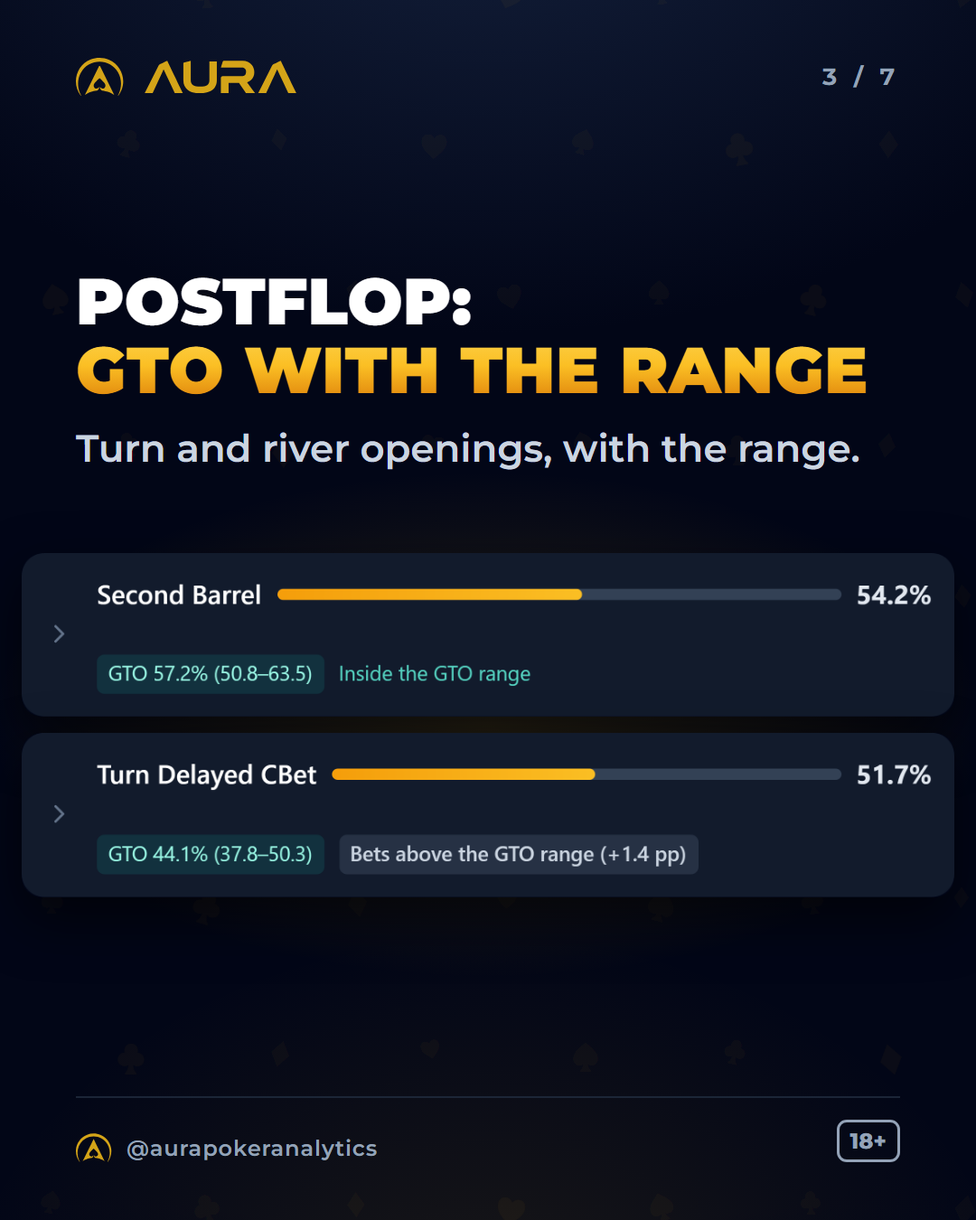
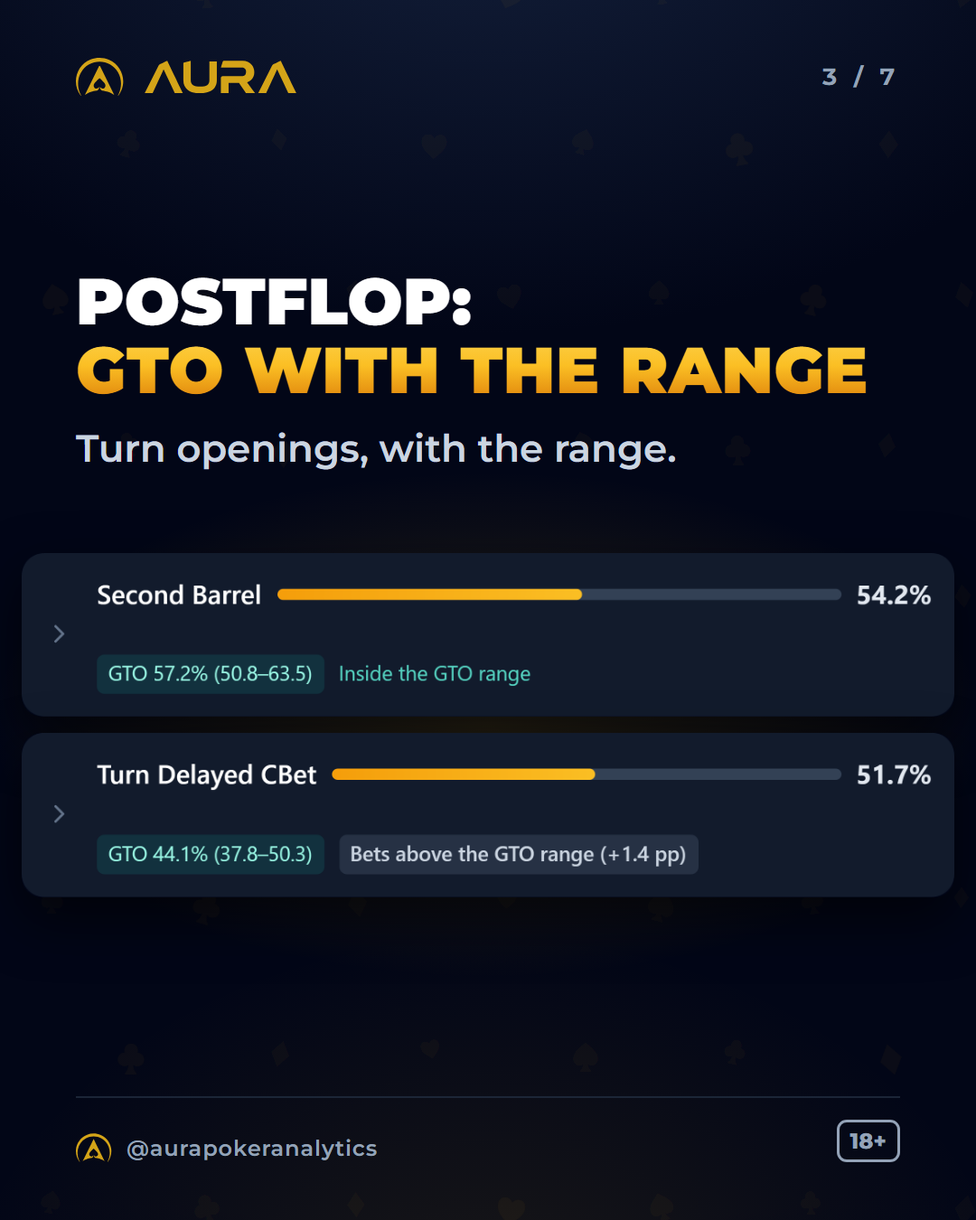
fix(modo-gto): ajustes da revisao de 14/10 (Discord sem 'sempre', 30-60bb, probe no turn, slide 3, HTML do e-mail)

Changed region(s): [[0.1833, 0.3422, 0.8861, 0.4044]]

diff --git a/content/posts/modo-gto-launch/email-en.html b/content/posts/modo-gto-launch/email-en.html
@@ -33,7 +33,7 @@
           </tr>
           <tr>
             <td style="padding-top:16px; padding-right:34px; padding-bottom:4px; padding-left:34px; font-family:Arial,Helvetica,sans-serif; color:#c3ccd9; font-size:15px; line-height:1.65;">
-              <p style="margin:0 0 14px 0;">Now on the flop, turn and river, including the aggressor&#x27;s openings on the turn and river (second barrel, delayed c-bet, probe, third barrel): the GTO number and the GTO range next to the field frequency. Pick the spot, hit Apply and see both together. The app&#x27;s status bar guides you, click by click, until GTO is there.</p>
+              <p style="margin:0 0 14px 0;">Now on the flop, turn and river, including the aggressor&#x27;s openings on the turn and river (second barrel, delayed c-bet and third barrel): the GTO number and the GTO range next to the field frequency. Pick the spot, hit Apply and see both together. The app&#x27;s status bar guides you, click by click, until GTO is there.</p>
               <p style="margin:0 0 14px 0;">Example: CO × BB single-raised pot (SRP), 30–60bb (GTO at 40bb), Regular tournaments, last 2 years, K-high two-tone, unpaired, disconnected flop, facing a 33% c-bet. The field folds 46.0% against GTO's 38.8%. This is one spot, not the field average. Check it on your board.</p>
               <p style="margin:0 0 4px 0;">Preflop: the GTO and the deviation in the covered cells, including the CO and BTN RFI at 40bb.</p>
             </td>

diff --git a/content/posts/modo-gto-launch/email-en.preview.html b/content/posts/modo-gto-launch/email-en.preview.html
@@ -33,7 +33,7 @@
           </tr>
           <tr>
             <td style="padding-top:16px; padding-right:34px; padding-bottom:4px; padding-left:34px; font-family:Arial,Helvetica,sans-serif; color:#c3ccd9; font-size:15px; line-height:1.65;">
-              <p style="margin:0 0 14px 0;">Now on the flop, turn and river, including the aggressor&#x27;s openings on the turn and river (second barrel, delayed c-bet, probe, third barrel): the GTO number and the GTO range next to the field frequency. Pick the spot, hit Apply and see both together. The app&#x27;s status bar guides you, click by click, until GTO is there.</p>
+              <p style="margin:0 0 14px 0;">Now on the flop, turn and river, including the aggressor&#x27;s openings on the turn and river (second barrel, delayed c-bet and third barrel): the GTO number and the GTO range next to the field frequency. Pick the spot, hit Apply and see both together. The app&#x27;s status bar guides you, click by click, until GTO is there.</p>
               <p style="margin:0 0 14px 0;">Example: CO × BB single-raised pot (SRP), 30–60bb (GTO at 40bb), Regular tournaments, last 2 years, K-high two-tone, unpaired, disconnected flop, facing a 33% c-bet. The field folds 46.0% against GTO's 38.8%. This is one spot, not the field average. Check it on your board.</p>
               <p style="margin:0 0 4px 0;">Preflop: the GTO and the deviation in the covered cells, including the CO and BTN RFI at 40bb.</p>
             </td>

diff --git a/content/posts/modo-gto-launch/email-pt.html b/content/posts/modo-gto-launch/email-pt.html
@@ -33,7 +33,7 @@
           </tr>
           <tr>
             <td style="padding-top:16px; padding-right:34px; padding-bottom:4px; padding-left:34px; font-family:Arial,Helvetica,sans-serif; color:#c3ccd9; font-size:15px; line-height:1.65;">
-              <p style="margin:0 0 14px 0;">Agora no flop, turn e river, inclusive as aberturas do agressor no turn e no river (second barrel, delayed c-bet, probe, third barrel): o número GTO e a faixa GTO ao lado da frequência do field. Escolha o spot, clique em Apply e veja os dois juntos. A faixa de status do app guia cada clique até ter GTO.</p>
+              <p style="margin:0 0 14px 0;">Agora no flop, turn e river, inclusive as aberturas do agressor no turn e no river (second barrel, delayed c-bet e third barrel): o número GTO e a faixa GTO ao lado da frequência do field. Escolha o spot, clique em Apply e veja os dois juntos. A faixa de status do app guia cada clique até ter GTO.</p>
               <p style="margin:0 0 14px 0;">Exemplo: CO × BB em pote simples (SRP), 30–60bb (GTO a 40bb), torneios Regular, últimos 2 anos, flop K-high two-tone, sem par, desconectado, contra o c-bet de 33%. O field folda 46,0% contra 38,8% do GTO. É um spot, não a média do field. Confira no seu board.</p>
               <p style="margin:0 0 4px 0;">No pré-flop, o GTO e o desvio nas células cobertas, inclusive o RFI de CO e BTN a 40bb.</p>
             </td>

diff --git a/content/posts/modo-gto-launch/email-pt.preview.html b/content/posts/modo-gto-launch/email-pt.preview.html
@@ -33,7 +33,7 @@
           </tr>
           <tr>
             <td style="padding-top:16px; padding-right:34px; padding-bottom:4px; padding-left:34px; font-family:Arial,Helvetica,sans-serif; color:#c3ccd9; font-size:15px; line-height:1.65;">
-              <p style="margin:0 0 14px 0;">Agora no flop, turn e river, inclusive as aberturas do agressor no turn e no river (second barrel, delayed c-bet, probe, third barrel): o número GTO e a faixa GTO ao lado da frequência do field. Escolha o spot, clique em Apply e veja os dois juntos. A faixa de status do app guia cada clique até ter GTO.</p>
+              <p style="margin:0 0 14px 0;">Agora no flop, turn e river, inclusive as aberturas do agressor no turn e no river (second barrel, delayed c-bet e third barrel): o número GTO e a faixa GTO ao lado da frequência do field. Escolha o spot, clique em Apply e veja os dois juntos. A faixa de status do app guia cada clique até ter GTO.</p>
               <p style="margin:0 0 14px 0;">Exemplo: CO × BB em pote simples (SRP), 30–60bb (GTO a 40bb), torneios Regular, últimos 2 anos, flop K-high two-tone, sem par, desconectado, contra o c-bet de 33%. O field folda 46,0% contra 38,8% do GTO. É um spot, não a média do field. Confira no seu board.</p>
               <p style="margin:0 0 4px 0;">No pré-flop, o GTO e o desvio nas células cobertas, inclusive o RFI de CO e BTN a 40bb.</p>
             </td>

diff --git a/content/posts/modo-gto-launch/instagram/src/carrossel-en-03.html b/content/posts/modo-gto-launch/instagram/src/carrossel-en-03.html
@@ -14,7 +14,7 @@
 <div class="vignette"></div>
 
 <header><div class="lockup"><span class="icon" data-icon></span><span class="wm" data-wordmark></span></div><span class="indicator">3 / 7</span></header>
-<div class="grp z"><div><h1 class="title">Postflop:<br><em>GTO with the range</em></h1><p class="sub fit">Turn and river openings, with the range.</p></div>
+<div class="grp z"><div><h1 class="title">Postflop:<br><em>GTO with the range</em></h1><p class="sub fit">Turn openings, with the range.</p></div>
 <div class="cap"><div class="glow"></div><div class="stack"><img src="assets/prod-second-barrel.png"><img src="assets/prod-turn-delayed-cbet.png"></div></div></div>
 <footer><div class="handle"><span class="icon" data-icon></span><span>@aurapokeranalytics</span></div><span class="age">18+</span></footer>
 </div><script src="common.js"></script></body></html>

diff --git a/content/posts/modo-gto-launch/instagram/src/build.py b/content/posts/modo-gto-launch/instagram/src/build.py
@@ -39,7 +39,7 @@ ART = {
     "story-capa-pt": dict(lang="pt", size=(1080, 1920), kind="story", t="Onde o field<br><em>sai do GTO?</em>", s="Novo: Modo GTO", ts=104, emph=True),
     "carrossel-en-01": dict(lang="en", size=(1080, 1350), kind="c1", t="Where does<br>the field<br><em>leave GTO?</em>", s="New: GTO Mode", ts=88, emph=True),
     "carrossel-en-02": dict(lang="en", size=(1080, 1350), kind="c2", t="Same spot,<br><em>two numbers</em>", s="{N1}", ts=96),
-    "carrossel-en-03": dict(lang="en", size=(1080, 1350), kind="c3", t="Postflop:<br><em>GTO with the range</em>", s="Turn and river openings, with the range.", ts=72),
+    "carrossel-en-03": dict(lang="en", size=(1080, 1350), kind="c3", t="Postflop:<br><em>GTO with the range</em>", s="Turn openings, with the range.", ts=72),
     "carrossel-en-04": dict(lang="en", size=(1080, 1350), kind="c4", t="Preflop:<br><em>GTO and deviation</em>", s="{t:c4_apoio_en}", ts=76),
     "carrossel-en-05": dict(lang="en", size=(1080, 1350), kind="c5", t="Delayed c-bet:<br><em>field vs GTO</em>", s="{N7}", ts=84),
     "carrossel-en-06": dict(lang="en", size=(1080, 1350), kind="c6", t="GTO Mode,<br>now in<br><em>Individual</em>", s="{t:c6_apoio_en}", ts=104),

diff --git a/content/posts/modo-gto-launch/copy.md b/content/posts/modo-gto-launch/copy.md
@@ -8,11 +8,11 @@ Peças deste pacote: Discord (também em `discord.md`), Instagram (feed, story, 
 > **Regra de texto das artes (Rafael, 08/10): "muita informação, muito texto; não pode ter tanto texto em nenhum post".** Cada arte tem no máximo UM título curto (~6 palavras) e, se precisar, UMA linha de apoio (~10 palavras). A imagem fala: barras field × GTO lado a lado, com os números. O detalhe vai para a legenda. Em toda arte só ficam o `@aurapokeranalytics` e o `18+`, pequenos. O link é o sticker/link na bio, não texto de arte. A frase do plano (Individual com preço e conta grátis) fica na legenda, no Discord, na landing e no e-mail; nas artes, só o slide 6 (título e apoio, com o preço em EN). Nas artes não entram contagem de mãos nem "amostra"; nas legendas e no e-mail também ficam de fora.
 
 ## Origem das capturas e artes a refazer (por outro agente)
-- **Slides 2, 4 (pré-flop) e imagem do e-mail:** as capturas de 08/10 seguem valendo (mesmos números). Vêm do front no SHA de produção daquele dia (aura-novofront `429c093`), lendo a API local `:7060` com os snapshots do go-live, por conta de teste local (sem login em produção). A imagem do e-mail EN é o recorte do card de 33% do painel de Fold por tamanho de Flop CBet; a célula do CO no slide 4 tem um contorno âmbar desenhado só para destaque.
-- **Slide 3 (postflop):** captura nova, que mostra Second Barrel e Turn Delayed CBet com o GTO ao lado do field. O Second Barrel só aparece nessa captura; não é o exemplo do slide 5.
-- **Slide 5 (abertura):** captura ou barras do Turn Delayed CBet do exemplo de abertura (CO × BB, 40bb).
+- **Slide 3 (postflop):** captura nova do aura-novofront `35d7005` (prévia local, API de prévia, 14/10), que mostra Second Barrel e Turn Delayed CBet com o GTO ao lado do field. O Second Barrel só aparece nessa captura; não é o exemplo do slide 5.
+- **Slide 4 (pré-flop) e imagem EN do e-mail:** capturas de 08/10 do aura-novofront `429c093` (front no SHA de produção daquele dia, lendo a API local `:7060` com os snapshots do go-live, por conta de teste local, sem login em produção). Os mesmos números foram confirmados em produção em 14/10. A imagem do e-mail EN é o recorte do card de 33% do painel de Fold por tamanho de Flop CBet; a célula do CO no slide 4 tem um contorno âmbar desenhado só para destaque.
+- **Slides 2 e a imagem do e-mail PT:** barras renderizadas pela build (46,0% / 38,8% / faixa 37,1–40,4%), não são captura.
+- **Slide 5 (abertura):** captura ou barras do Turn Delayed CBet do exemplo de abertura (CO × BB, 30–60bb, GTO a 40bb).
 - **Carrossel de 7 slides:** o plano passa a ser o slide 6 e o CTA o 7; indicador "n / 7"; renomear `carrossel-en-05` para 06 e `-06` para 07.
-- **E-mail:** `email-pt.html` e `email-en.html` conforme `email.md`.
 - Nenhuma peça chama as capturas de "print de produção".
 
 ## Pendências reais
@@ -21,11 +21,13 @@ Peças deste pacote: Discord (também em `discord.md`), Instagram (feed, story, 
 3. **Teste logado do Rafael.** Conferir em `www.aura.poker` os mesmos valores do exemplo CO × BB (46,0% / 38,8% / faixa 37,1–40,4%), do RFI do CO (31,6% / 37,0%) e do exemplo de abertura (51,7% / 44,1% / faixa 37,8–50,3%), antes de qualquer post ou envio.
 4. **Hospedagem das imagens do e-mail (aura-landing#17).** `email/modo-gto-pt.png` e `-en.png` precisam estar em `https://www.aurapoker.com/email/` antes do envio.
 5. **Cobertura: nunca vira "todas".** A tela não cobre todas as ações (por exemplo, o c-bet do flop como abertura, o donk do flop e o probe do river não são feature). Nenhuma peça usa "todas / every / all" para cobertura, nem cita o c-bet do flop, o donk ou o probe do river como feature. O texto fica nas formas abaixo.
+6. **"Por tempo limitado" sem data (recomendação do revisor, CONAR/CDC).** Expressão de urgência sem data de fim pode ser questionada. Recomendação: combinar uma data de fim e honrá-la, ou tirar a expressão. Decisão do Rafael. Enquanto não decidir, as peças mantêm "por tempo limitado" / "for a limited time", sem data.
+7. **Dependências de produção.** (a) aura-api#84: o turn e o river de co_btn, utg_bb@25 e outros pares ficam fora hoje até o deploy; o texto de cobertura só vale com esse deploy feito. (b) A landing de produção não pode mostrar o GTO como plano à parte (nem preço próprio); só como parte do Individual.
 
 ## Decisões registradas
-- **Cobertura (texto final, HUB 14/10).** PT: "GTO no flop, no turn e no river. No flop, a reação ao c-bet e ao raise. No turn e no river, também a frequência de aposta do agressor (second barrel, delayed c-bet, probe, third barrel)." EN: "GTO on the flop, turn and river. On the flop, the response to the c-bet and to the raise. On the turn and river, also the aggressor's betting frequency (second barrel, delayed c-bet, probe, third barrel)." Nas legendas, versão curta: "no flop, turn e river" e "inclusive as aberturas do agressor no turn e no river" (EN "on the flop, turn and river" e "including the aggressor's openings on the turn and river").
+- **Cobertura (texto final, HUB 14/10).** PT: "GTO no flop, no turn e no river. No flop, a reação ao c-bet e ao raise. No turn e no river, também a frequência de aposta do agressor (second barrel, delayed c-bet, probe no turn, third barrel)." EN: "GTO on the flop, turn and river. On the flop, the response to the c-bet and to the raise. On the turn and river, also the aggressor's betting frequency (second barrel, delayed c-bet, turn probe, third barrel)." Nas legendas curtas e no e-mail, versão curta: "no flop, turn e river" e "inclusive as aberturas do agressor no turn e no river", com a lista só "second barrel, delayed c-bet e third barrel" quando houver lista (EN "on the flop, turn and river" e "including the aggressor's openings on the turn and river"; "second barrel, delayed c-bet and third barrel").
 - **Capa com duas linhas (decisão consciente, revisão de marca de 08/10).** A capa (story PT e slide 1 do carrossel) tem o apoio ("Novo: Modo GTO" / "New: GTO Mode") e uma micro-legenda do spot ("CO × BB · K-high two-tone · c-bet de 33%" / "CO × BB · K-high two-tone · 33% c-bet"). É a única exceção à regra de uma linha de apoio.
-- **Slide 3.** Título "Postflop: GTO with the range", apoio "Turn and river openings, with the range." (7 palavras; a captura mostra Second Barrel e Turn Delayed CBet).
+- **Slide 3.** Título "Postflop: GTO with the range", apoio "Turn openings, with the range." (5 palavras; a captura mostra Second Barrel e Turn Delayed CBet). A arte é do outro agente.
 - **Slide 4 mostra os números arredondados da tela.** A captura traz Field 32% / GTO 37% / −5. A fonte tem 31,6 / 37,0 / −5,4; as legendas e a landing usam os valores da fonte.
 - **Slide 5 novo: abertura do agressor.** Entra como slide 5 para manter o slide 4 do pré-flop como está. Exemplo: Turn Delayed CBet (o CO aposta o turn depois do flop passado), recorte largo. Não se usa o Probe nem o Second Barrel como exemplo (o Second Barrel, dentro da faixa, só aparece na captura do slide 3). Se o Rafael preferir a abertura colada ao pós-flop (slide 4), basta inverter com o pré-flop e renomear os arquivos.
 - **Stories e feed** seguem com o exemplo CO × BB (c-bet de 33%). O exemplo de abertura só vive no carrossel (slide 5 e legenda); Discord, landing e e-mail ficam com um exemplo só.
@@ -55,11 +57,11 @@ Filtro da tela: Postflop · SRP · RFI CO, caller BB · stack 30.1–60bb (GTO a
 **Exemplo de pré-flop (exemplo (b)):** RFI do CO, torneio Regular, stack 30–50bb (GTO a 40bb). Field abre **31,6%**; GTO abre **37,0%**; diferença **−5,4 pp** (o field abre de menos). PT: "No pré-flop, RFI do CO a 30–50bb (GTO a 40bb), torneios Regular, últimos 2 anos: o field abre 31,6% e o GTO abre 37,0%." EN: "Preflop, CO RFI at 30–50bb (GTO at 40bb), Regular tournaments, last 2 years: the field opens 31.6% and GTO opens 37.0%."
 
 ## O exemplo de abertura do agressor (Turn Delayed CBet)
-Spot (recorte largo): CO × BB · 40bb · SRP · flop two-tone · turn qualquer · torneios Regular · últimos 2 anos. Ação: Turn Delayed CBet (o CO aposta o turn depois do flop passado). Métrica: frequência da aposta do CO, field contra GTO. Field aposta **51,7%**; GTO aposta **44,1%**, faixa **37,8–50,3%**; **1,4 pp acima do topo da faixa**. Leitura: acima da faixa (o field aposta mais do que o GTO). Resumo para o apoio da arte: "CO × BB · two-tone · turn".
+Spot (recorte largo): CO × BB · 30–60bb (GTO a 40bb) · SRP · flop two-tone · turn qualquer · torneios Regular · últimos 2 anos. Ação: Turn Delayed CBet (o CO aposta o turn depois do flop passado). Métrica: frequência da aposta do CO, field contra GTO. Field aposta **51,7%**; GTO aposta **44,1%**, faixa **37,8–50,3%**; **1,4 pp acima do topo da faixa**. Leitura: acima da faixa (o field aposta mais do que o GTO). Resumo para o apoio da arte: "CO × BB · two-tone · turn".
 
-**Texto final, PT:** "CO × BB em pote simples (SRP), 40bb, torneios Regular, últimos 2 anos, flop two-tone, qualquer turn. No turn, depois do flop passado, o CO aposta (delayed c-bet): o field aposta 51,7% e o GTO aposta 44,1% (faixa 37,8–50,3%): 1,4 pp acima do topo da faixa. Aqui o field aposta mais do que o GTO. É um spot, não a média do field. Confira no seu board."
+**Texto final, PT:** "CO × BB em pote simples (SRP), 30–60bb (GTO a 40bb), torneios Regular, últimos 2 anos, flop two-tone, qualquer turn. No turn, depois do flop passado, o CO aposta (delayed c-bet): o field aposta 51,7% e o GTO aposta 44,1% (faixa 37,8–50,3%): 1,4 pp acima do topo da faixa. Aqui o field aposta mais do que o GTO. É um spot, não a média do field. Confira no seu board."
 
-**Final text, EN:** "CO × BB single-raised pot (SRP), 40bb, Regular tournaments, last 2 years, two-tone flop, any turn. On the turn, after the flop checks through, the CO bets (delayed c-bet): the field bets 51.7% and GTO bets 44.1% (range 37.8–50.3%): 1.4 pp above the top of the range. Here the field bets more than GTO does. This is one spot, not the field average. Check it on your board."
+**Final text, EN:** "CO × BB single-raised pot (SRP), 30–60bb (GTO at 40bb), Regular tournaments, last 2 years, two-tone flop, any turn. On the turn, after the flop checks through, the CO bets (delayed c-bet): the field bets 51.7% and GTO bets 44.1% (range 37.8–50.3%): 1.4 pp above the top of the range. Here the field bets more than GTO does. This is one spot, not the field average. Check it on your board."
 
 ## URLs por peça
 Regra: Discord leva ao app (`https://www.aura.poker/`); Instagram e e-mail levam à landing (`https://www.aurapoker.com/`). Parâmetros: `utm_source=<fonte>&utm_medium=<meio>&utm_campaign=modo-gto-launch&utm_content=<peça>`.
@@ -99,13 +101,13 @@ Em toda arte, além do título e da linha de apoio: logo AURA, `@aurapokeranalyt
 | Story da capa do carrossel | 1080x1920 | PT | Onde o field sai do GTO? | Novo: Modo GTO (+ micro-legenda do spot: CO × BB · K-high two-tone · c-bet de 33%) | Mesmas barras com o gap em âmbar (46,0% e 38,8%); sticker "Conhecer o Modo GTO" |
 | Carrossel 1 (capa) | 1080x1350 | EN | Where does the field leave GTO? | New: GTO Mode (+ spot micro-caption: CO × BB · K-high two-tone · 33% c-bet) | Mesma imagem da capa PT (46.0% and 38.8%) |
 | Carrossel 2 | 1080x1350 | EN | Same spot, two numbers | CO × BB · K-high two-tone · 33% c-bet | As barras e os dois números: Field 46.0%, GTO 38.8% (range 37.1–40.4%) |
-| Carrossel 3 | 1080x1350 | EN | Postflop: GTO with the range | Turn and river openings, with the range. | Captura nova do Postflop com o Modo GTO ligado, mostrando Second Barrel e Turn Delayed CBet com o GTO ao lado do field |
+| Carrossel 3 | 1080x1350 | EN | Postflop: GTO with the range | Turn openings, with the range. | Captura nova do Postflop com o Modo GTO ligado (aura-novofront `35d7005`), mostrando Second Barrel e Turn Delayed CBet com o GTO ao lado do field |
 | Carrossel 4 | 1080x1350 | EN | Preflop: GTO and deviation | Includes CO and BTN RFI at 40bb. | Captura da grade com a célula do RFI do CO destacada: na tela, Field 32%, GTO 37%, −5 (arredondado; a fonte tem 31,6 / 37,0 / −5,4) |
 | Carrossel 5 (novo) | 1080x1350 | EN | Delayed c-bet: field vs GTO | CO × BB · two-tone · turn | Barras de aposta lado a lado: Field 51.7% e GTO 44.1% com a faixa 37.8–50.3% sombreada; gap em âmbar (1.4 pp acima do topo da faixa) |
 | Carrossel 6 | 1080x1350 | EN | GTO Mode, now in Individual | Part of the US$ 29/month plan, for a limited time. | Um cadeado desenhado (sem texto do app) |
 | Carrossel 7 (CTA) | 1080x1350 | EN | See GTO Mode | Link in bio. | Logo e fundo da marca |
 
-Contagem de palavras (regra do Rafael): títulos de 4 a 7 palavras; apoios de 3 a 10 palavras (slide 3: 7; slide 5: 5; slide 6: 10).
+Contagem de palavras (regra do Rafael): títulos de 4 a 7 palavras; apoios de 3 a 10 palavras (slide 3: 5; slide 5: 5; slide 6: 10).
 
 Notas de arte:
 - **Cores:** fold em teal `#015A6B`; a distância entre a barra do field e a do GTO em âmbar (o gap). Faixa GTO sombreada em volta da barra do GTO. No slide 5, a barra é de aposta (frequência de bet), não de fold: usar a cor semântica do raise (`#AD2C34`) para a aposta, mantendo o gap em âmbar e a faixa sombreada.
@@ -162,11 +164,11 @@ Onde o field sai do GTO?
 
 Novo na Aura: Modo GTO. Ao lado da frequência do field, o número GTO e a faixa GTO.
 
-Pós-flop: GTO no flop, no turn e no river. No flop, a reação ao c-bet e ao raise. No turn e no river, também a frequência de aposta do agressor (second barrel, delayed c-bet, probe, third barrel). Escolha o spot, clique em Apply e veja o field e o GTO juntos. A faixa de status do app guia cada clique até ter GTO.
+Pós-flop: GTO no flop, no turn e no river. No flop, a reação ao c-bet e ao raise. No turn e no river, também a frequência de aposta do agressor (second barrel, delayed c-bet, probe no turn, third barrel). Escolha o spot, clique em Apply e veja o field e o GTO juntos. A faixa de status do app guia cada clique até ter GTO.
 
 Reação: CO × BB em pote simples (SRP), 30–60bb (GTO a 40bb), torneios Regular, últimos 2 anos, flop K-high two-tone, sem par, desconectado, contra o c-bet de 33%. O field folda 46,0% contra 38,8% do GTO (faixa 37,1–40,4%): 5,6 pp acima do topo da faixa. Aqui o field folda mais do que o GTO. É um spot, não a média do field. Confira no seu board.
 
-Abertura: CO × BB em pote simples (SRP), 40bb, torneios Regular, últimos 2 anos, flop two-tone, qualquer turn. No turn, depois do flop passado, o CO aposta (delayed c-bet): o field aposta 51,7% e o GTO aposta 44,1% (faixa 37,8–50,3%): 1,4 pp acima do topo da faixa. Aqui o field aposta mais do que o GTO. É um spot, não a média do field.
+Abertura: CO × BB em pote simples (SRP), 30–60bb (GTO a 40bb), torneios Regular, últimos 2 anos, flop two-tone, qualquer turn. No turn, depois do flop passado, o CO aposta (delayed c-bet): o field aposta 51,7% e o GTO aposta 44,1% (faixa 37,8–50,3%): 1,4 pp acima do topo da faixa. Aqui o field aposta mais do que o GTO. É um spot, não a média do field.
 
 Pré-flop: o GTO e o desvio nas células cobertas, inclusive o RFI de CO e BTN a 40bb. RFI do CO a 30–50bb (GTO a 40bb), torneios Regular, últimos 2 anos: o field abre 31,6% e o GTO abre 37,0%.
 
@@ -182,11 +184,11 @@ Where does the field leave GTO?
 
 New on Aura: GTO Mode. Next to the field frequency, the GTO number and the GTO range.
 
-Postflop: GTO on the flop, turn and river. On the flop, the response to the c-bet and to the raise. On the turn and river, also the aggressor's betting frequency (second barrel, delayed c-bet, probe, third barrel). Pick the spot, hit Apply and see the field and GTO together. The app's status bar guides you, click by click, until GTO is there.
+Postflop: GTO on the flop, turn and river. On the flop, the response to the c-bet and to the raise. On the turn and river, also the aggressor's betting frequency (second barrel, delayed c-bet, turn probe, third barrel). Pick the spot, hit Apply and see the field and GTO together. The app's status bar guides you, click by click, until GTO is there.
 
 Response: CO × BB single-raised pot (SRP), 30–60bb (GTO at 40bb), Regular tournaments, last 2 years, K-high two-tone, unpaired, disconnected flop, facing a 33% c-bet. The field folds 46.0% against GTO's 38.8% (range 37.1–40.4%): 5.6 pp above the top of the range. Here the field folds more than GTO does. This is one spot, not the field average. Check it on your board.
 
-Opening: CO × BB single-raised pot (SRP), 40bb, Regular tournaments, last 2 years, two-tone flop, any turn. On the turn, after the flop checks through, the CO bets (delayed c-bet): the field bets 51.7% and GTO bets 44.1% (range 37.8–50.3%): 1.4 pp above the top of the range. Here the field bets more than GTO does. This is one spot, not the field average.
+Opening: CO × BB single-raised pot (SRP), 30–60bb (GTO at 40bb), Regular tournaments, last 2 years, two-tone flop, any turn. On the turn, after the flop checks through, the CO bets (delayed c-bet): the field bets 51.7% and GTO bets 44.1% (range 37.8–50.3%): 1.4 pp above the top of the range. Here the field bets more than GTO does. This is one spot, not the field average.
 
 Preflop: the GTO and the deviation in the covered cells, including the CO and BTN RFI at 40bb. CO RFI at 30–50bb (GTO at 40bb), Regular tournaments, last 2 years: the field opens 31.6% and GTO opens 37.0%.
 
@@ -217,12 +219,12 @@ See GTO Mode, link in bio. Save it for study. Study tool. 18+.
 
 ## 3 bullets
 PT:
-- Pós-flop: GTO no flop, no turn e no river. No flop, a reação ao c-bet e ao raise. No turn e no river, também a frequência de aposta do agressor (second barrel, delayed c-bet, probe, third barrel). Escolha o spot, clique em Apply e veja o field e o GTO juntos; a faixa de status do app guia cada clique até ter GTO.
+- Pós-flop: GTO no flop, no turn e no river. No flop, a reação ao c-bet e ao raise. No turn e no river, também a frequência de aposta do agressor (second barrel, delayed c-bet, probe no turn, third barrel). Escolha o spot, clique em Apply e veja o field e o GTO juntos; a faixa de status do app guia cada clique até ter GTO.
 - Pré-flop: a grade traz o GTO e o desvio nas células cobertas, inclusive o RFI de CO e BTN a 40bb. No RFI do CO a 30–50bb (GTO a 40bb), torneios Regular, últimos 2 anos, o field abre 31,6% e o GTO abre 37,0%.
 - Exemplo: CO × BB em pote simples (SRP), 30–60bb (GTO a 40bb), torneios Regular, últimos 2 anos, flop K-high two-tone, sem par, desconectado, contra o c-bet de 33%. O field folda 46,0% contra 38,8% do GTO (faixa 37,1–40,4%): 5,6 pp acima do topo da faixa. Aqui o field folda mais do que o GTO. É um spot, não a média do field. Confira no seu board.
 
 EN:
-- Postflop: GTO on the flop, turn and river. On the flop, the response to the c-bet and to the raise. On the turn and river, also the aggressor's betting frequency (second barrel, delayed c-bet, probe, third barrel). Pick the spot, hit Apply and see the field and GTO together; the app's status bar guides you, click by click, until GTO is there.
+- Postflop: GTO on the flop, turn and river. On the flop, the response to the c-bet and to the raise. On the turn and river, also the aggressor's betting frequency (second barrel, delayed c-bet, turn probe, third barrel). Pick the spot, hit Apply and see the field and GTO together; the app's status bar guides you, click by click, until GTO is there.
 - Preflop: the grid carries the GTO and the deviation in the covered cells, including the CO and BTN RFI at 40bb. On the CO RFI at 30–50bb (GTO at 40bb), Regular tournaments, last 2 years, the field opens 31.6% and GTO opens 37.0%.
 - Example: CO × BB single-raised pot (SRP), 30–60bb (GTO at 40bb), Regular tournaments, last 2 years, K-high two-tone, unpaired, disconnected flop, facing a 33% c-bet. The field folds 46.0% against GTO's 38.8% (range 37.1–40.4%): 5.6 pp above the top of the range. Here the field folds more than GTO does. This is one spot, not the field average. Check it on your board.
 
@@ -253,7 +255,7 @@ Texto completo, com URLs, em `discord.md` (mesma pasta). PT e EN, abaixo de 1.20
 
 # (d) E-mail
 
-Texto, assuntos, preheader e notas técnicas em `email.md`. Corpo curto, um exemplo (CO × BB) e a comparação field × GTO dele. Botão "Conhecer o Modo GTO" / "See GTO Mode". O HTML atual (`email-pt.html` e `email-en.html`) é da versão de 08/10 e precisa ser atualizado por outro agente conforme `email.md`. A imagem do e-mail (`email/modo-gto-pt.png` e `-en.png`) tem os mesmos números do exemplo (46,0% e 38,8%, faixa 37,1–40,4%).
+Texto, assuntos, preheader e notas técnicas em `email.md`. Corpo curto, um exemplo (CO × BB) e a comparação field × GTO dele. Botão "Conhecer o Modo GTO" / "See GTO Mode". A imagem do e-mail (`email/modo-gto-pt.png` e `-en.png`) tem os mesmos números do exemplo (46,0% e 38,8%, faixa 37,1–40,4%).
 
 ---
 
@@ -267,7 +269,7 @@ Texto, assuntos, preheader e notas técnicas em `email.md`. Corpo curto, um exem
 | Diferença | +5,6 pp (acima do topo da faixa, como a tela mostra; 7,2 é contra o centro) | Exemplo (a) | Só texto: legendas, Discord, landing (o e-mail não a cita) |
 | Pré-flop | RFI do CO, Regular, 30–50bb (GTO a 40bb): field abre 31,6%, GTO abre 37,0%, −5,4 pp | Exemplo (b) | Captura do slide 4; legenda do carrossel e landing (bullet 2). O −5,4 pp não é citado no texto |
 | Ação da abertura | Turn Delayed CBet (o CO aposta o turn depois do flop passado) | `numeros-verificados-lancamento.md` (14/10) | Título do slide 5; legenda do carrossel |
-| Spot da abertura | CO × BB · 40bb · SRP · flop two-tone · turn qualquer · Regular · últimos 2 anos (apoio da arte: "CO × BB · two-tone · turn") | idem | Slide 5 (apoio); legenda do carrossel |
+| Spot da abertura | CO × BB · 30–60bb (GTO a 40bb) · SRP · flop two-tone · turn qualquer · Regular · últimos 2 anos (apoio da arte: "CO × BB · two-tone · turn") | idem | Slide 5 (apoio); legenda do carrossel |
 | Field aposta | 51,7% (EN 51.7%) | idem | Slide 5 (barra); legenda do carrossel |
 | GTO aposta e faixa | 44,1%, faixa 37,8–50,3% (EN 44.1%, 37.8–50.3%) | idem | Slide 5 (barra e faixa); legenda do carrossel |
 | Diferença da abertura | 1,4 pp acima do topo da faixa (EN 1.4 pp above the top of the range) | idem | Slide 5 (gap); legenda do carrossel |

diff --git a/content/posts/modo-gto-launch/email.md b/content/posts/modo-gto-launch/email.md
@@ -2,7 +2,6 @@
 
 Status: rascunho sem marcadores abertos; não publicado. Não enviado, e nada foi criado no Resend. Versão de 13/10/2026, números fechados em 14/10.
 Números: exemplo (a) de `aura-main/_ops/golive-gto-2026-10-04/numeros-verificados.md` (08/10): field folda 46,0%, GTO folda 38,8%. A cobertura segue `aura-main/_ops/golive-gto-2026-10-14/numeros-verificados-lancamento.md` (14/10). Um exemplo só (CO × BB) e uma comparação só (field contra GTO). Sem número de escala, sem pré-flop concreto, sem contagem de mãos, sem o exemplo de abertura.
-HTML: `email-pt.html` e `email-en.html` são da versão de 08/10 e **precisam ser atualizados por outro agente** conforme este arquivo (ver "Para quem atualiza o HTML"). Este arquivo não mexe no HTML nem nas imagens.
 **Só enviar depois do teste logado do Rafael, do P-61 no ar (Modo GTO aberto ao Individual), da conferência do preço (29 / 150) no Stripe pelo Rafael, da hospedagem das imagens (aura-landing#17) e da versão de 13/10 em produção.** O botão leva à landing, mas o texto promete o módulo.
 
 ---
@@ -22,7 +21,7 @@ HTML: `email-pt.html` e `email-en.html` são da versão de 08/10 e **precisam se
 Novo na Aura: Modo GTO
 O GTO e o field na mesma tela.
 
-Agora no flop, turn e river, inclusive as aberturas do agressor no turn e no river (second barrel, delayed c-bet, probe, third barrel): o número GTO e a faixa GTO ao lado da frequência do field. Escolha o spot, clique em Apply e veja os dois juntos. A faixa de status do app guia cada clique até ter GTO.
+Agora no flop, turn e river, inclusive as aberturas do agressor no turn e no river (second barrel, delayed c-bet e third barrel): o número GTO e a faixa GTO ao lado da frequência do field. Escolha o spot, clique em Apply e veja os dois juntos. A faixa de status do app guia cada clique até ter GTO.
 
 Exemplo: CO × BB em pote simples (SRP), 30–60bb (GTO a 40bb), torneios Regular, últimos 2 anos, flop K-high two-tone, sem par, desconectado, contra o c-bet de 33%. O field folda 46,0% contra 38,8% do GTO. É um spot, não a média do field. Confira no seu board.
 
@@ -48,7 +47,7 @@ Sob o botão: O Modo GTO faz parte do plano Individual (R$ 150/mês) por tempo l
 New on Aura: GTO Mode
 GTO and the field on the same screen.
 
-Now on the flop, turn and river, including the aggressor's openings on the turn and river (second barrel, delayed c-bet, probe, third barrel): the GTO number and the GTO range next to the field frequency. Pick the spot, hit Apply and see both together. The app's status bar guides you, click by click, until GTO is there.
+Now on the flop, turn and river, including the aggressor's openings on the turn and river (second barrel, delayed c-bet and third barrel): the GTO number and the GTO range next to the field frequency. Pick the spot, hit Apply and see both together. The app's status bar guides you, click by click, until GTO is there.
 
 Example: CO × BB single-raised pot (SRP), 30–60bb (GTO at 40bb), Regular tournaments, last 2 years, K-high two-tone, unpaired, disconnected flop, facing a 33% c-bet. The field folds 46.0% against GTO's 38.8%. This is one spot, not the field average. Check it on your board.
 
@@ -59,15 +58,9 @@ Under the button: GTO Mode is part of the Individual plan (US$ 29/month) for a l
 
 ---
 
-## Para quem atualiza o HTML (outro agente)
-
-- Trocar o parágrafo de cobertura, o bloco do exemplo, o assunto, o preheader e a frase do plano pelo texto acima.
-- O exemplo do corpo cita só "46,0% contra 38,8%" (sem a faixa e sem o "5,6 pp" no texto). A imagem do e-mail (`email/modo-gto-pt.png` e `-en.png`) segue com os mesmos números (46,0%, 38,8%, faixa 37,1–40,4%, +5,6 pp); não contradiz o texto.
-- Mantém: botão âmbar, frase do plano sob o botão, rodapé com descadastro e 18+.
-
 ## Nota técnica
 
-- **Imagem:** `email/modo-gto-pt.png` e `email/modo-gto-en.png` (1200 px, geradas pela build). EN: captura recortada do card de 33% do app (`_ops/golive-gto-2026-10-04/prints/prod/postflop-en.png`: 46.0%, GTO 38.8% (37.1–40.4), Overfold +5.6 pp). PT: as duas barras renderizadas pela build (46,0% / 38,8% / faixa 37,1–40,4), porque o app em PT mistura 46.0% e 38,8% (bug do front). A captura vem do front no SHA de produção de 08/10 (aura-novofront 429c093) lendo a API local com os snapshots do go-live, não da conta de produção; o teste logado do Rafael confere os mesmos valores antes do envio. Sem selo de versão, e-mail ou nick. **Hospedar em `https://www.aurapoker.com/email/` antes do envio (aura-landing#17).**
+- **Imagem:** `email/modo-gto-pt.png` e `email/modo-gto-en.png` (1200 px, geradas pela build). EN: captura recortada do card de 33% do app (`_ops/golive-gto-2026-10-04/prints/prod/postflop-en.png`: 46.0%, GTO 38.8% (37.1–40.4), Overfold +5.6 pp). PT: as duas barras renderizadas pela build (46,0% / 38,8% / faixa 37,1–40,4), porque o app em PT mistura 46.0% e 38,8% (bug do front). A captura vem do front no SHA de produção de 08/10 (aura-novofront 429c093) lendo a API local com os snapshots do go-live, não da conta de produção; os mesmos números foram confirmados em produção em 14/10, e o teste logado do Rafael os confere antes do envio. Sem selo de versão, e-mail ou nick. **Hospedar em `https://www.aurapoker.com/email/` antes do envio (aura-landing#17).**
 - **Logo:** `https://www.aura.poker/email/aura-logo.png` (já hospedado).
 - **Link do CTA (sempre a landing, nunca o app/login; `www.aurapoker.com` com www):**
   - PT: https://www.aurapoker.com/?utm_source=email&utm_medium=email&utm_campaign=modo-gto-launch&utm_content=pt

diff --git a/content/posts/modo-gto-launch/discord.md b/content/posts/modo-gto-launch/discord.md
@@ -1,7 +1,7 @@
 # Discord: lançamento do Modo GTO (GTO no flop, turn e river)
 
 Status: rascunho sem marcadores abertos; não publicado. Versão de 13/10/2026, números fechados em 14/10.
-**Tamanho real (len do texto exato dos blocos abaixo, URL inclusa, em caracteres Unicode): PT 1.108, EN 1.157. Teto de 1.200 respeitado nos dois.** Recontar se qualquer palavra mudar. 3 emojis funcionais: 📊 título, 🔎 convite, 👉 CTA.
+**Tamanho real (len do texto exato dos blocos abaixo, URL inclusa, em caracteres Unicode): PT 1.110, EN 1.156. Teto de 1.200 respeitado nos dois.** Recontar se qualquer palavra mudar. 3 emojis funcionais: 📊 título, 🔎 convite, 👉 CTA.
 **Aviso de publicação: só postar depois do teste logado do Rafael, do P-61 no ar (Modo GTO aberto ao Individual) e da conferência do preço no Stripe pelo Rafael.** O link leva ao app e o texto promete o módulo.
 Números: exemplo (a) de `aura-main/_ops/golive-gto-2026-10-04/numeros-verificados.md` (08/10): field 46,0%, GTO 38,8% (faixa 37,1–40,4%), 5,6 pp acima do topo da faixa. A cobertura segue `aura-main/_ops/golive-gto-2026-10-14/numeros-verificados-lancamento.md` (14/10). Nenhum outro número.
 O CTA é "Conhecer o Modo GTO" / "See GTO Mode"; não promete o GTO de graça. A frase do plano é a decisão do Rafael via HUB (13/10): PT cita "plano Individual (R$ 150/mês)", EN cita "Individual plan (US$ 29/month)", nunca a moeda trocada; "por tempo limitado" sem data. Sem plano Modo GTO à parte, sem Top, sem desconto semestral/anual.
@@ -14,7 +14,7 @@ O CTA é "Conhecer o Modo GTO" / "See GTO Mode"; não promete o GTO de graça. A
 ```
 📊 **Novo na Aura: Modo GTO**
 
-GTO no flop, no turn e no river. No flop, a reação ao c-bet e ao raise. No turn e no river, também a frequência de aposta do agressor (second barrel, delayed c-bet, probe, third barrel). Sempre o número GTO e a faixa GTO ao lado do field.
+GTO no flop, no turn e no river. No flop, a reação ao c-bet e ao raise. No turn e no river, também a frequência de aposta do agressor (second barrel, delayed c-bet, probe no turn, third barrel). Ao lado do field, o número GTO e a faixa GTO.
 
 **Exemplo**
 CO × BB em pote simples, 30–60bb (GTO a 40bb), torneios Regular, últimos 2 anos, flop K-high two-tone, sem par, desconectado. Contra o c-bet de 33%, o field folda 46,0% e o GTO 38,8% (faixa 37,1–40,4%): 5,6 pp acima do topo da faixa. É um spot, não a média do field.
@@ -36,7 +36,7 @@ Ferramenta de estudo. 18+.
 ```
 📊 **New on Aura: GTO Mode**
 
-GTO on the flop, turn and river. On the flop, the response to the c-bet and to the raise. On the turn and river, also the aggressor's betting frequency (second barrel, delayed c-bet, probe, third barrel). Always the GTO number and the GTO range next to the field.
+GTO on the flop, turn and river. On the flop, the response to the c-bet and to the raise. On the turn and river, also the aggressor's betting frequency (second barrel, delayed c-bet, turn probe, third barrel). Next to the field, the GTO number and the GTO range.
 
 **Example**
 CO × BB single-raised pot, 30–60bb (GTO at 40bb), Regular tournaments, last 2 years, K-high two-tone, unpaired, disconnected flop. Facing a 33% c-bet, the field folds 46.0% and GTO 38.8% (range 37.1–40.4%): 5.6 pp above the top of the range. This is one spot, not the field average.
@@ -59,4 +59,4 @@ Study tool. 18+.
 - Sem exemplo de abertura no Discord: um exemplo só, para caber no teto. O exemplo de abertura (Turn Delayed CBet) vive no carrossel.
 - Sem "todas as ações", sem o c-bet do flop, o donk nem o probe do river como feature.
 - A ressalva de torneios vanilla fica só na Metodologia do app (pedido do Rafael em 06/10); o Discord não a repete.
-- Conferência da contagem, para quem quiser refazer: copiar o texto de cada bloco (sem as cercas) para um arquivo sem quebra de linha final e rodar `python -c "import sys;print(len(open(sys.argv[1],encoding='utf-8').read()))" arquivo.txt`. A contagem acima foi feita por regex no arquivo (`📊 \*\*Novo na Aura: Modo GTO\*\*.{0,N}\n` e a cerca de fechamento, em modo multilinha e dotall, bisseção de N até o menor que casa: 1.080 depois da 1.ª linha de 28 caracteres no PT; 1.130 depois da 1.ª linha de 27 no EN), porque esta sessão não tinha Python. `\n` conta 1 caractere.
+- Conferência da contagem, para quem quiser refazer: copiar o texto de cada bloco (sem as cercas) para um arquivo sem quebra de linha final e rodar `python -c "import sys;print(len(open(sys.argv[1],encoding='utf-8').read()))" arquivo.txt`. A contagem acima foi feita por regex no arquivo (`📊 \*\*Novo na Aura: Modo GTO\*\*.{0,N}\n` e a cerca de fechamento, em modo multilinha e dotall, bisseção de N até o menor que casa: 1.082 depois da 1.ª linha de 28 caracteres no PT; 1.129 depois da 1.ª linha de 27 no EN), porque esta sessão não tinha Python. `\n` conta 1 caractere.
